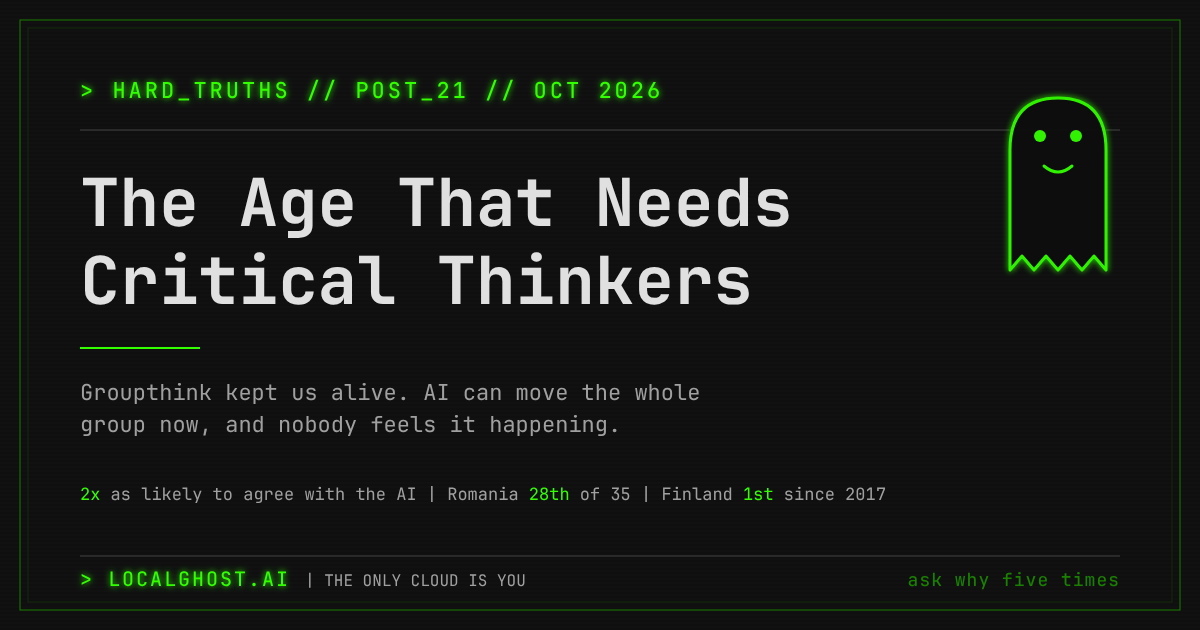
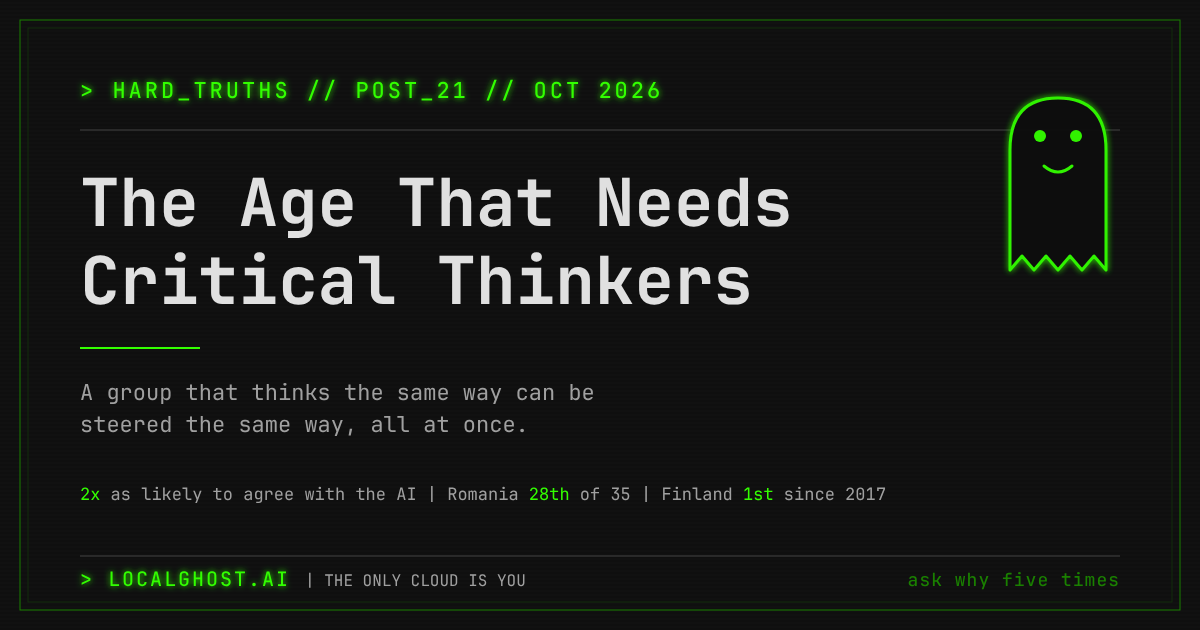
New blog post

Changed region(s): [[0.0617, 0.6032, 0.5858, 0.6333], [0.0617, 0.6635, 0.5242, 0.6937]]

diff --git a/public/hard-truths/age-that-needs-critical-thinkers.html b/public/hard-truths/age-that-needs-critical-thinkers.html
@@ -4,7 +4,7 @@
     <meta charset="UTF-8">
     <meta name="viewport" content="width=device-width, initial-scale=1.0">
     <title>The Age That Needs Critical Thinkers | LocalGhost.ai</title>
-    <meta name="description" content="AI can move what a whole group thinks without anyone noticing. What two studies found, what Romania's annulled election and Finland's schools show, why critical thinking used to be for the elite, and why museums should be free.">
+    <meta name="description" content="Groupthink kept us alive, and now it's becoming a liability. AI can move what a whole group thinks, and in one study most people didn't notice the AI was biased.">
     <meta name="author" content="Vlad Cealicu">
     <meta name="robots" content="index, follow, max-snippet:-1, max-image-preview:large, max-video-preview:-1">
     <meta name="keywords" content="critical thinking, groupthink, AI, generative AI, media literacy, education, museums, Romania, Finland, slop, LocalGhost, Hard Truths">
@@ -15,7 +15,7 @@
     <meta property="og:type" content="article">
     <meta property="og:url" content="https://www.localghost.ai/hard-truths/age-that-needs-critical-thinkers">
     <meta property="og:title" content="The Age That Needs Critical Thinkers | LocalGhost Hard Truths">
-    <meta property="og:description" content="An argument on Reddit during a castle tour, and two realisations at once. Groupthink kept us alive for most of our history and is now a liability, AI can move the group without anyone feeling it, and this time critical thinking has to be for everyone.">
+    <meta property="og:description" content="On a tour of Hohenschwangau I realised critical thinking is something I take for granted. Groupthink kept us alive for most of our history, now it's becoming a liability, and with AI sitting next to so many of us the steering got a whole lot easier.">
     <meta property="og:image" content="https://www.localghost.ai/images/og-age-that-needs-critical-thinkers.png">
     <meta property="og:image:width" content="1200">
     <meta property="og:image:height" content="630">
@@ -37,7 +37,7 @@
     <meta name="twitter:site" content="@localghostai">
     <meta name="twitter:creator" content="@vladcealicu">
     <meta name="twitter:title" content="The Age That Needs Critical Thinkers">
-    <meta name="twitter:description" content="Groupthink kept us alive, and AI can now move the whole group without anyone noticing. Why critical thinking has to be for everyone this time.">
+    <meta name="twitter:description" content="Groupthink kept us alive, and now it's becoming a liability. This time it's about surviving, and we need critical thinking for everyone.">
     <meta name="twitter:image" content="https://www.localghost.ai/images/og-age-that-needs-critical-thinkers.png">
     <meta name="twitter:image:alt" content="The Age That Needs Critical Thinkers, LocalGhost Hard Truths">
     <meta name="fediverse:creator" content="@vladcealicu">
@@ -51,7 +51,7 @@
         "@context": "https://schema.org",
         "@type": "BlogPosting",
         "headline": "The Age That Needs Critical Thinkers",
-        "description": "An argument on Reddit during a castle tour, and two realisations at once. Groupthink kept us alive for most of our history and is now a liability, AI can move the group without anyone feeling it, and this time critical thinking has to be for everyone.",
+        "description": "On a tour of Hohenschwangau I realised critical thinking is something I take for granted. Groupthink kept us alive for most of our history, now it's becoming a liability, and with AI sitting next to so many of us the steering got a whole lot easier.",
         "author": {
             "@type": "Person",
             "@id": "https://www.localghost.ai/about#vlad-cealicu",
@@ -85,7 +85,7 @@
         },
         "keywords": "critical thinking, groupthink, AI, generative AI, media literacy, education, museums, Romania, Finland, slop, LocalGhost, Hard Truths",
         "articleSection": "Hard Truths",
-        "wordCount": 1912,
+        "wordCount": 1889,
         "inLanguage": "en-GB",
         "isPartOf": {
             "@id": "https://www.localghost.ai/hard-truths#blog"
@@ -159,11 +159,11 @@
         </p>
 
         <p>
-            Two things landed at the same time. The first was that critical thinking is something I take for granted. The second was Neuschwanstein, on the hill above, which only exists because one man wanted it badly enough (with a lot of power and money behind him, his own fortune and a lot of borrowing rather than the state's) <a href="#ref-1" class="cite">[1]</a>. It's a castle built out of one person's passion, and AI is slowly taking the passion out of a lot of human work. I think if we had a bit more critical thinking we'd be a lot more flexible, and we'd absorb what comes next more easily. Maybe I can make a small difference by writing about what I think is next in tech and how we deal with AI.
+            I realised two things at the same time, one that critical thinking is something I take for granted, and two that Neuschwanstein, on the hill above, wouldn't exist if it wasn't for the vision and ambition of one person (albeit with a lot of power and money) <a href="#ref-1" class="cite">[1]</a>. It's a castle built out of sheer passion, and AI is slowly taking the passion out of a lot of human work. I think if we had a bit more critical thinking we'd be a lot more flexible, and we'd absorb what comes next more easily. Maybe I can make a small difference by writing about what I think is next in tech and how we deal with AI.
         </p>
 
         <p>
-            If I had to date the age that needs critical thinkers, it would be 14 September 2012, the day Facebook passed a billion people a month and a huge part of the world started getting its news, its jokes and its opinions from the same few feeds <a href="#ref-2" class="cite">[2]</a>. Fourteen years later it's official, because Merriam-Webster made slop its word of the year for 2025 <a href="#ref-3" class="cite">[3]</a>. Being in that age doesn't mean we've become critical thinkers, though. We need to step up to the challenge as a society before it's too late, and it's already getting late.
+            If I had to date the age that needs critical thinkers, it would be 14 September 2012, the day Facebook passed a billion people a month and a huge part of the world started getting its news, its jokes and its opinions from the same few feeds <a href="#ref-2" class="cite">[2]</a>. Fourteen years later we're officially in it, because Merriam-Webster made slop its word of the year for 2025 <a href="#ref-3" class="cite">[3]</a>. We need to step up to the challenge as a society before it's too late, and it's already getting late.
         </p>
 
         <h2 class="section-header">&gt; 1. Groupthink kept us alive</h2>
@@ -193,7 +193,7 @@
         <h2 class="section-header">&gt; 3. We&#x27;ve seen what happens</h2>
 
         <p>
-            We've seen how easily a population with low critical thinking can be exploited by foreign actors. In Romania, where I grew up, the Constitutional Court annulled the first round of the presidential election on 6 December 2024. Two days earlier the president had declassified files from four state agencies describing a campaign of thousands of social media accounts on TikTok and Telegram pushing one candidate, which they said bore the hallmarks of a state actor, widely read as Russia <a href="#ref-7" class="cite">[7]</a>. Later that month Romania's tax authority found that the National Liberal Party, a Romanian party, had paid for a TikTok campaign that ended up being hijacked to promote the same candidate <a href="#ref-8" class="cite">[8]</a>. In the 2021 Media Literacy Index, Romania came 28th of 35 European countries <a href="#ref-9" class="cite">[9]</a>. I don't think that's an accident. Communism, and the education system I grew up in, hated critical thinking and actively discouraged it.
+            We've seen how easily a population with low critical thinking can be exploited by foreign actors. In Romania, where I grew up, the Constitutional Court annulled the first round of the presidential election on 6 December 2024. Two days earlier the president had declassified files from four state agencies describing a campaign of thousands of social media accounts on TikTok and Telegram pushing one candidate, which they said bore the hallmarks of a state actor, widely read as Russia <a href="#ref-7" class="cite">[7]</a>. Later that month Romania's tax authority found that the National Liberal Party, a Romanian party, had paid for a TikTok campaign that ended up being hijacked to promote the same candidate <a href="#ref-8" class="cite">[8]</a>. In the 2021 Media Literacy Index, Romania came 28th of 35 European countries <a href="#ref-9" class="cite">[9]</a>. I think that's because communism, and the education system I grew up in, hated critical thinking and actively discouraged it.
         </p>
 
         <p>
@@ -261,7 +261,7 @@
         </p>
 
         <div class="final-words">
-            Neuschwanstein is still on that hill because one man wanted it badly enough. AI will keep taking the passion out of a lot of the work we do, and I think a bit more critical thinking can point that passion in the right direction. If you think I've got it wrong, the <a href="https://www.reddit.com/r/AIDiscussion/comments/1xb769a/" target="_blank" rel="noopener">Reddit thread</a> where this started is a good place to tell me, and the next post is about what I think a critical thinker needs to stand on.
+            Neuschwanstein is still on that hill because of one person's vision and ambition. AI will keep taking the passion out of a lot of the work we do, and I think a bit more critical thinking can point that passion in the right direction. If you think I've got it wrong, the <a href="https://www.reddit.com/r/AIDiscussion/comments/1xb769a/" target="_blank" rel="noopener">Reddit thread</a> where this started is a good place to tell me, and the next post is about what I think a critical thinker needs to stand on.
             <span class="small">[ localghost.ai // hard-truths ]</span>
         </div>
 
@@ -375,7 +375,7 @@
             <a href="/.well-known/pgp-key.asc">PGP KEY</a>
             <a href="mailto:info@localghost.ai">CONTACT</a>
         </div>
-    <p class="footer-quote">"It isn't something you learn once and then have. You exercise it every day." // The Age That Needs Critical Thinkers</p>
+    <p class="footer-quote">"Critical thinking isn't something you learn once and then have. You exercise it every day." // The Age That Needs Critical Thinkers</p>
 </footer>
 
     <script src="/js/phosphor.js" defer></script>

diff --git a/public/hard-truths.html b/public/hard-truths.html
@@ -289,7 +289,7 @@
                 <span class="post-tag">SIGNAL</span>
             </div>
             <h2 class="post-title">The Age That Needs Critical Thinkers</h2>
-            <p class="post-excerpt">On a tour of Hohenschwangau I was arguing on Reddit that LLMs are the best abstraction layer we've built, and two things landed at once. Critical thinking is something I take for granted, and the castle on the hill above only exists because one man wanted it badly enough. Groupthink kept us alive for most of our history, and AI can now move the whole group without anyone feeling it. Then Romania's annulled election, Finland's schools, why critical thinking used to cost a lot of money, and why museums should be free for everyone.</p>
+            <p class="post-excerpt">On a tour of Hohenschwangau I was arguing on Reddit that LLMs are the best abstraction layer we've built, and I realised two things at the same time, that critical thinking is something I take for granted, and that the castle on the hill above wouldn't exist without the vision and ambition of one person. Groupthink kept us alive for most of our history, and now it's becoming a liability.</p>
             <span class="post-arrow">[ READ → ]</span>
         </a>
 
